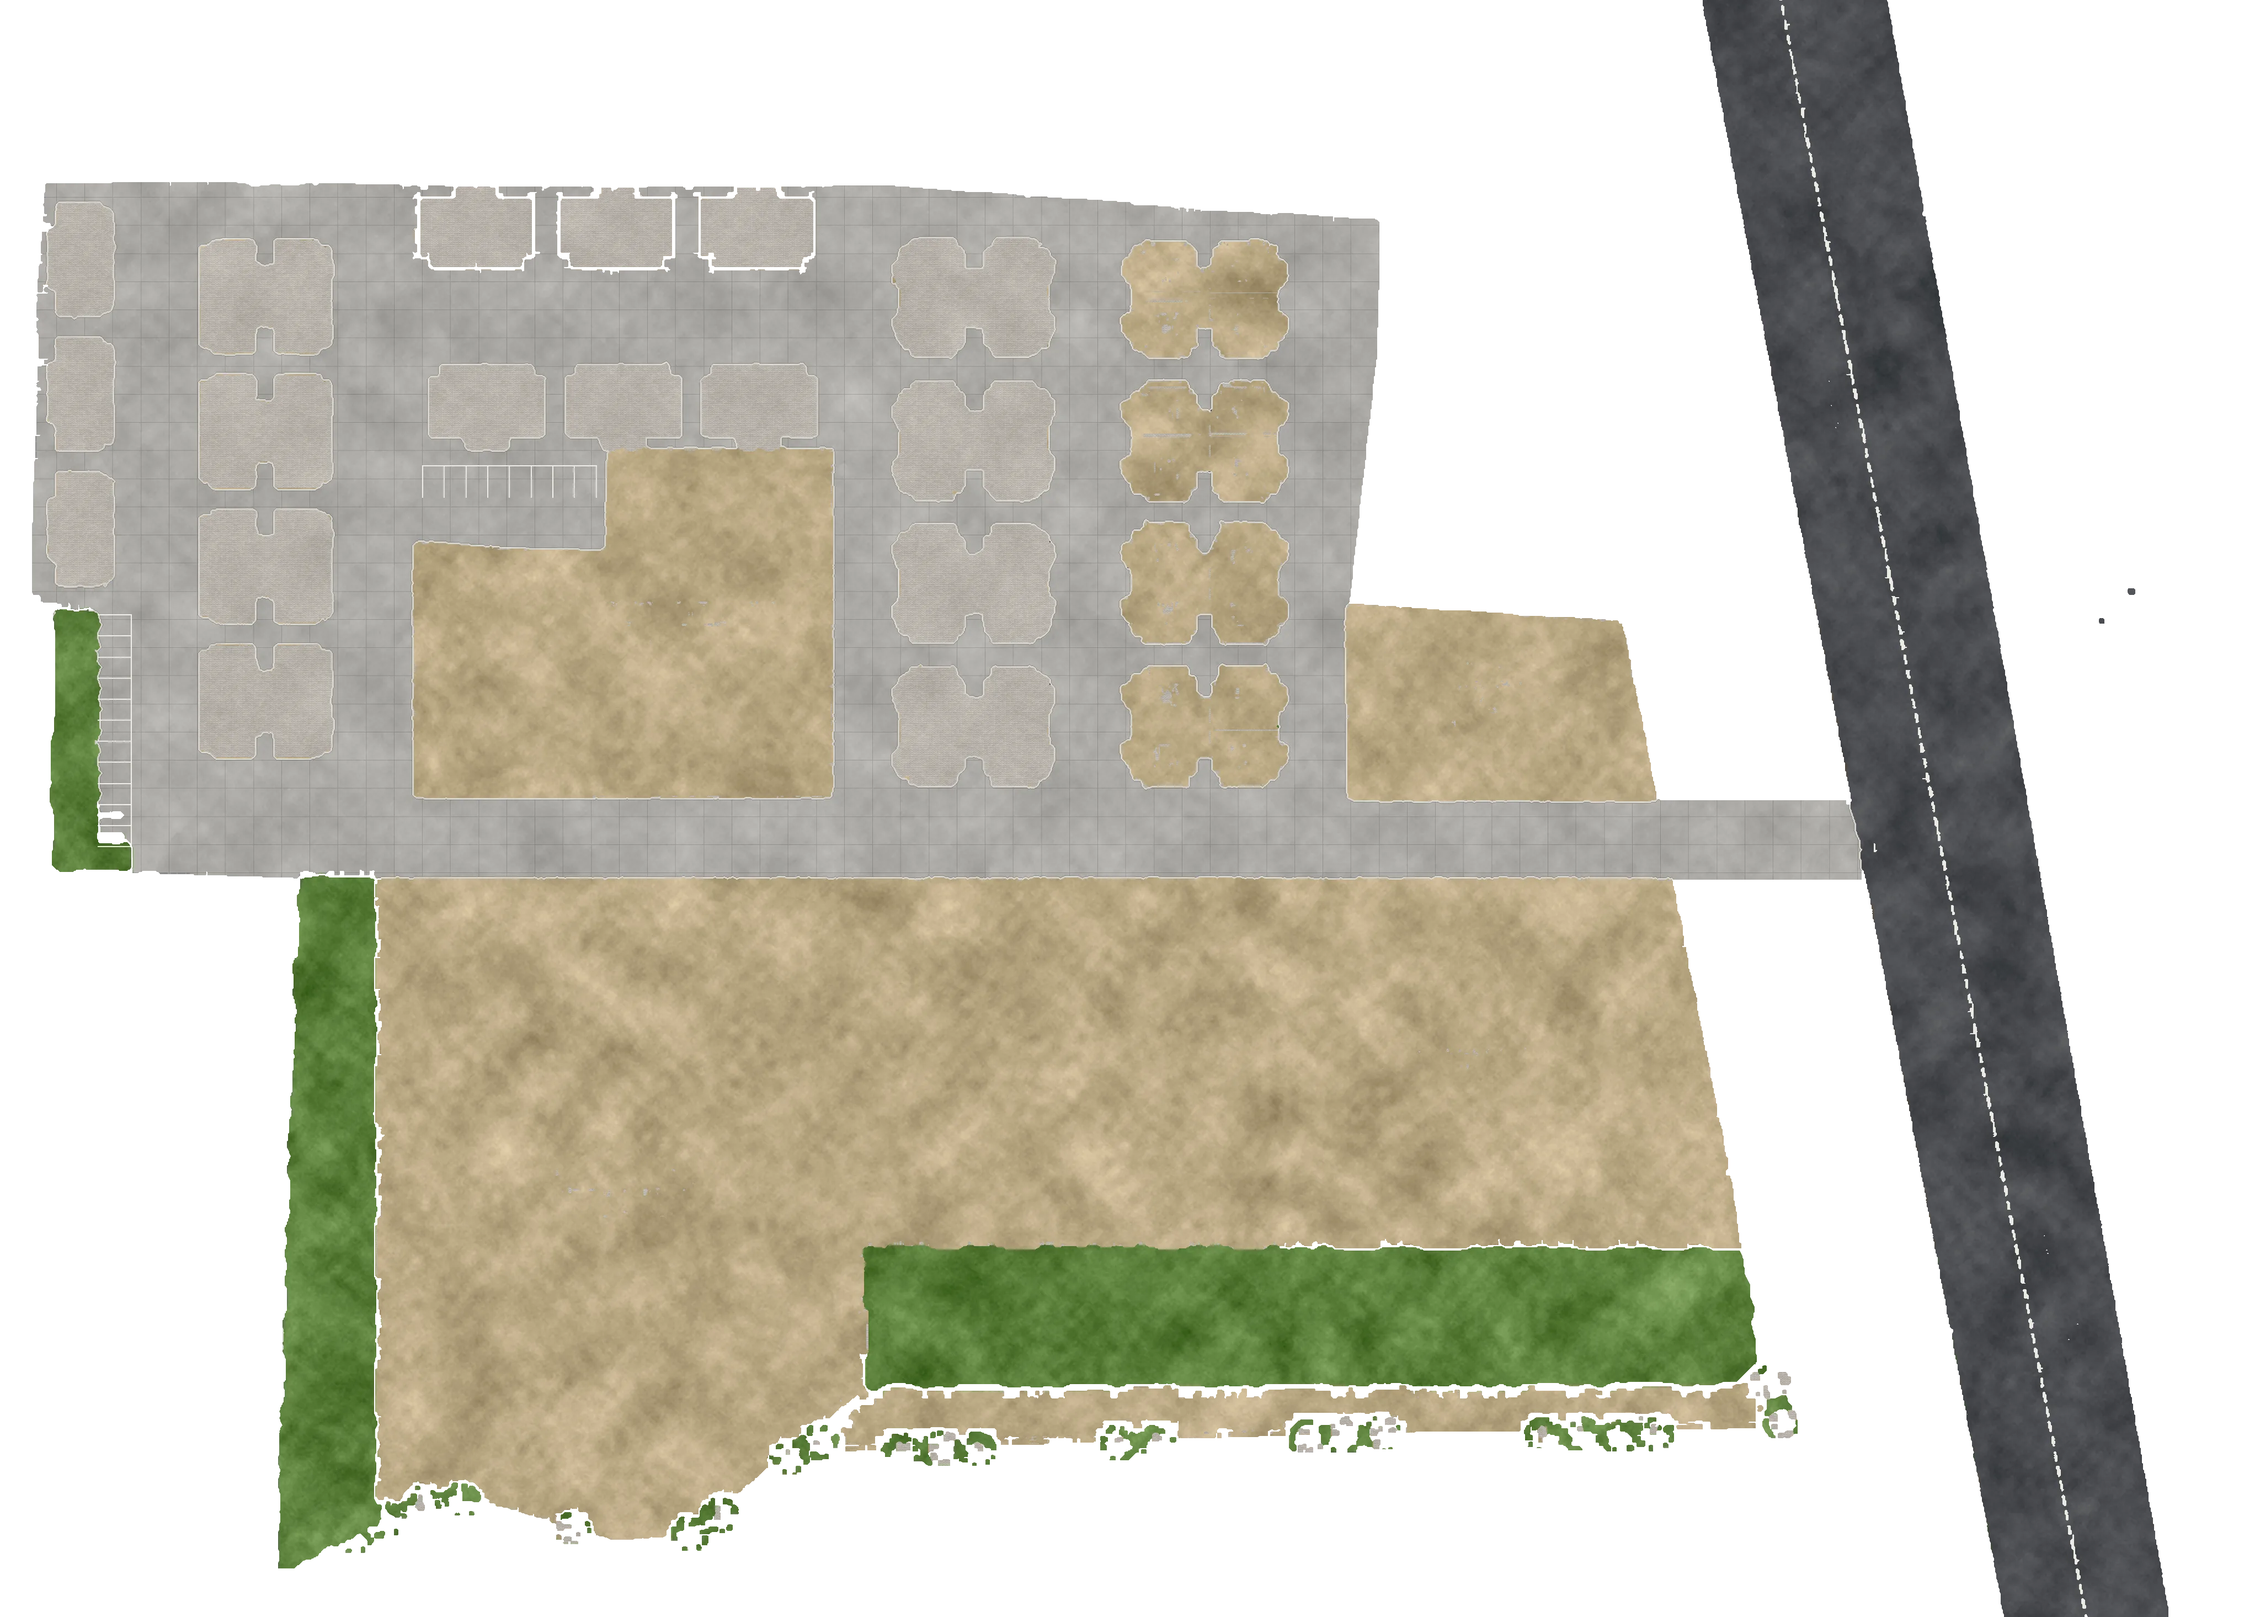
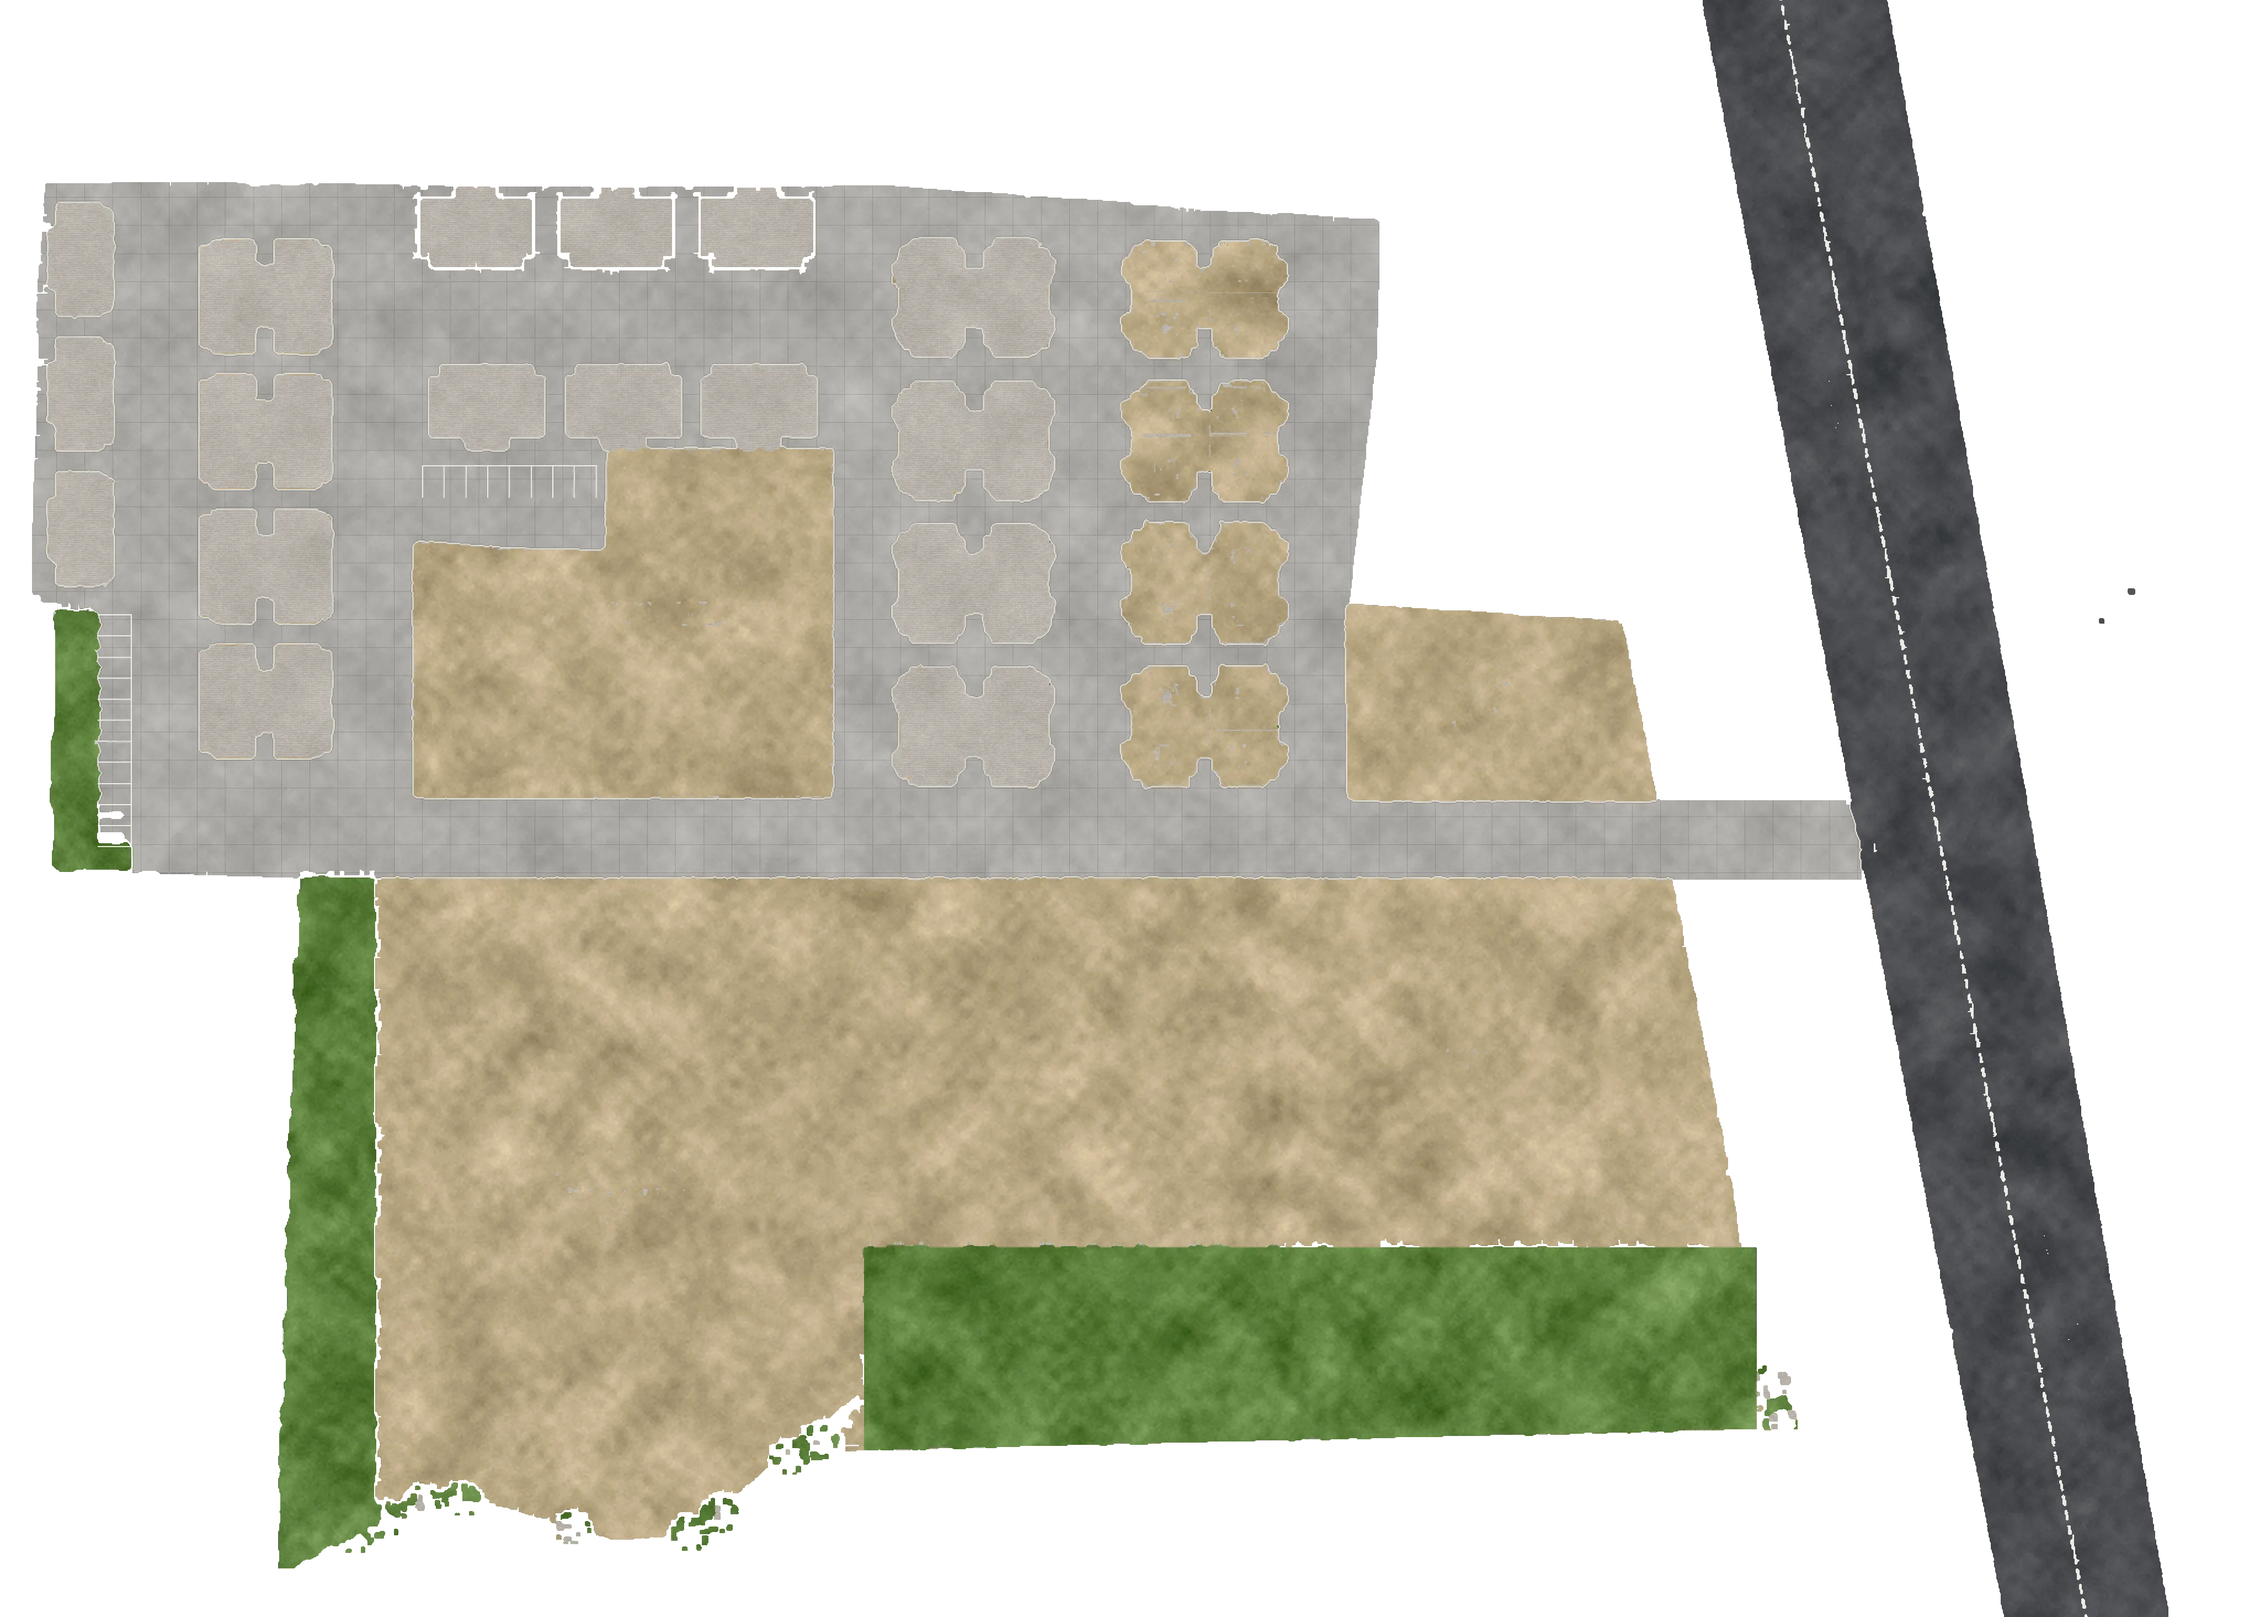
Garden runs up to the straight compound wall; remove builder placeholder
Claude-Session: https://claude.ai/code/session_01WYyLttfT966u1PfBpDFbYx

Changed region(s): [[0.375, 0.8386, 0.7812, 0.9007], [0.75, 0.7765, 0.7812, 0.8075]]

diff --git a/index.html b/index.html
@@ -1047,7 +1047,6 @@ html.pg-lock,html.pg-lock body{overflow:hidden}
           <div><dt>Developer</dt><dd>M/s COT Industries</dd></div>
           <div><dt>Architect</dt><dd>Rachaita Sthapatya &amp; Interior Designer</dd></div>
         </dl>
-        <p class="builder-note"><span class="tbd">Add years in business and past projects</span></p>
       </div>
     </div>
   </section>
@@ -2378,7 +2377,9 @@ function initStory(){
   var PXM=6.6,CX=1000,CY=900;
   function wx(px){return(px-CX)/PXM}function wz(py){return(py-CY)/PXM}
   var GATE={px:1950,py:885};var gateX=wx(GATE.px),gateZ=wz(GATE.py);
-  var BND=SITE.boundary.map(function(p){return[wx(p[0]),wz(p[1])]});
+  /* the bottom compound wall runs straight along the garden, as on the layout plan */
+  var BSRC=[];SITE.boundary.forEach(function(p){if(p[0]>=874&&p[0]<=1895&&p[1]>1480){if(!BSRC.wallDone){BSRC.push([874,1529],[1895,1505]);BSRC.wallDone=1}return}BSRC.push(p)});
+  var BND=BSRC.map(function(p){return[wx(p[0]),wz(p[1])]});
   function inside(x,z){var c=false;for(var i=0,j=BND.length-1;i<BND.length;j=i++){var a=BND[i],b=BND[j];if(((a[1]>z)!==(b[1]>z))&&(x<(b[0]-a[0])*(z-a[1])/(b[1]-a[1])+a[0]))c=!c}return c}
 
   var skyU={top:{value:new T.Color()},hor:{value:new T.Color()},bot:{value:new T.Color()},sunDir:{value:new T.Vector3(0,1,0)},sunCol:{value:new T.Color('#ffd09a')},sunAmt:{value:0},cloud:{value:1}};
@@ -2608,8 +2609,8 @@ function initStory(){
   var trees=[],tries=0;
   while(trees.length<380&&tries<9000){tries++;var ang=rnd()*Math.PI*2,rad=170+Math.pow(rnd(),.8)*560,tx=gateX*.2+Math.cos(ang)*rad*1.15,tz=Math.sin(ang)*rad;
     if(inside(tx,tz)||Math.abs(tx-wx(2050))<22)continue;trees.push({x:tx,z:tz,s:.8+rnd()*.9,a:-1,y:0,v:rnd()<.85?0:1})}
-  var GSTRIP=[[52,642,103,919],[293,923,403,1653],[911,1314,1852,1465]];
-  var GKEEP=[[1310,1340,1470,1440],[1028,1340,1152,1440],[1665,1355,1735,1425],[1505,1355,1575,1415],[296,1165,400,1295]];
+  var GSTRIP=[[52,642,103,919],[293,923,403,1653],[911,1314,1852,1500]];
+  var GKEEP=[[1310,1355,1470,1462],[1028,1360,1152,1460],[1665,1375,1735,1445],[1505,1370,1575,1430],[296,1165,400,1295]];
   SITE.trees.forEach(function(p){if(!GSTRIP.some(function(r){return p[0]>r[0]-4&&p[0]<r[2]+4&&p[1]>r[1]-4&&p[1]<r[3]+4}))return;if(GKEEP.some(function(r){return p[0]>r[0]&&p[0]<r[2]&&p[1]>r[1]&&p[1]<r[3]}))return;trees.push({x:wx(p[0]),z:wz(p[1]),s:.75+rnd()*.35,a:.81+rnd()*.06,y:.2,v:rnd()<.45?2:(rnd()<.5?0:1)})});
   function leafBlob(g,cx,cy,rx,ry,n,pal,rmin,rmax){
     for(var i=0;i<n;i++){var a=rnd()*Math.PI*2,r=Math.sqrt(rnd()),x=cx+Math.cos(a)*r*rx,y=cy+Math.sin(a)*r*ry,
@@ -2962,10 +2963,10 @@ function initStory(){
     var l=roundRectShape(w-width+.06,d-width+.06,Math.max(.5,r-width/2)),li=roundRectShape(w-width-.06,d-width-.06,Math.max(.5,r-width/2));l.holes.push(li);
     var g2=new T.ExtrudeGeometry(l,{depth:.065,bevelEnabled:false,curveSegments:10});g2.rotateX(-Math.PI/2);GR.add(g2,gM.trackLine,cx,.305,cz)}
   /* --- main garden (bottom common plot) --- */
-  var A0=PX(911,1314),A1=PX(1852,1465),ax=(A0[0]+A1[0])/2,az=(A0[1]+A1[1])/2,aw=A1[0]-A0[0],ad=A1[1]-A0[1];
+  var A0=PX(911,1314),A1=PX(1852,1503),ax=(A0[0]+A1[0])/2,az=(A0[1]+A1[1])/2,aw=A1[0]-A0[0],ad=A1[1]-A0[1];
   trackLoop(ax,az,aw-2.4,ad-2.4,1.8,5);
   /* hedges along the edges */
-  GR.box(gM.hedge,ax,.75,A0[1]+.5,aw-1,.9,.7);GR.box(gM.hedge,ax,.75,A1[1]-.5,aw-1,.9,.7);
+  GR.box(gM.hedge,ax,.75,A0[1]+.5,aw-1,.9,.7);(function(){var a=PX(911,1529-24*37/1021-2.6),b=PX(1852,1529-24*978/1021-2.6);GR.box(gM.hedge,(a[0]+b[0])/2,.75,(a[1]+b[1])/2,Math.hypot(b[0]-a[0],b[1]-a[1]),.9,.7,0,Math.atan2(a[1]-b[1],b[0]-a[0]),0)})();
   /* club house */
   var cx=wx(1390),cz=az;
   GR.box(gM.stone,cx,.45,cz,21,.3,12.5);GR.box(gM.white,cx,2.4,cz-1,17,3.8,8);GR.box(gM.mauve,cx-5.5,2.4,cz-1,6,3.8,8.05);
